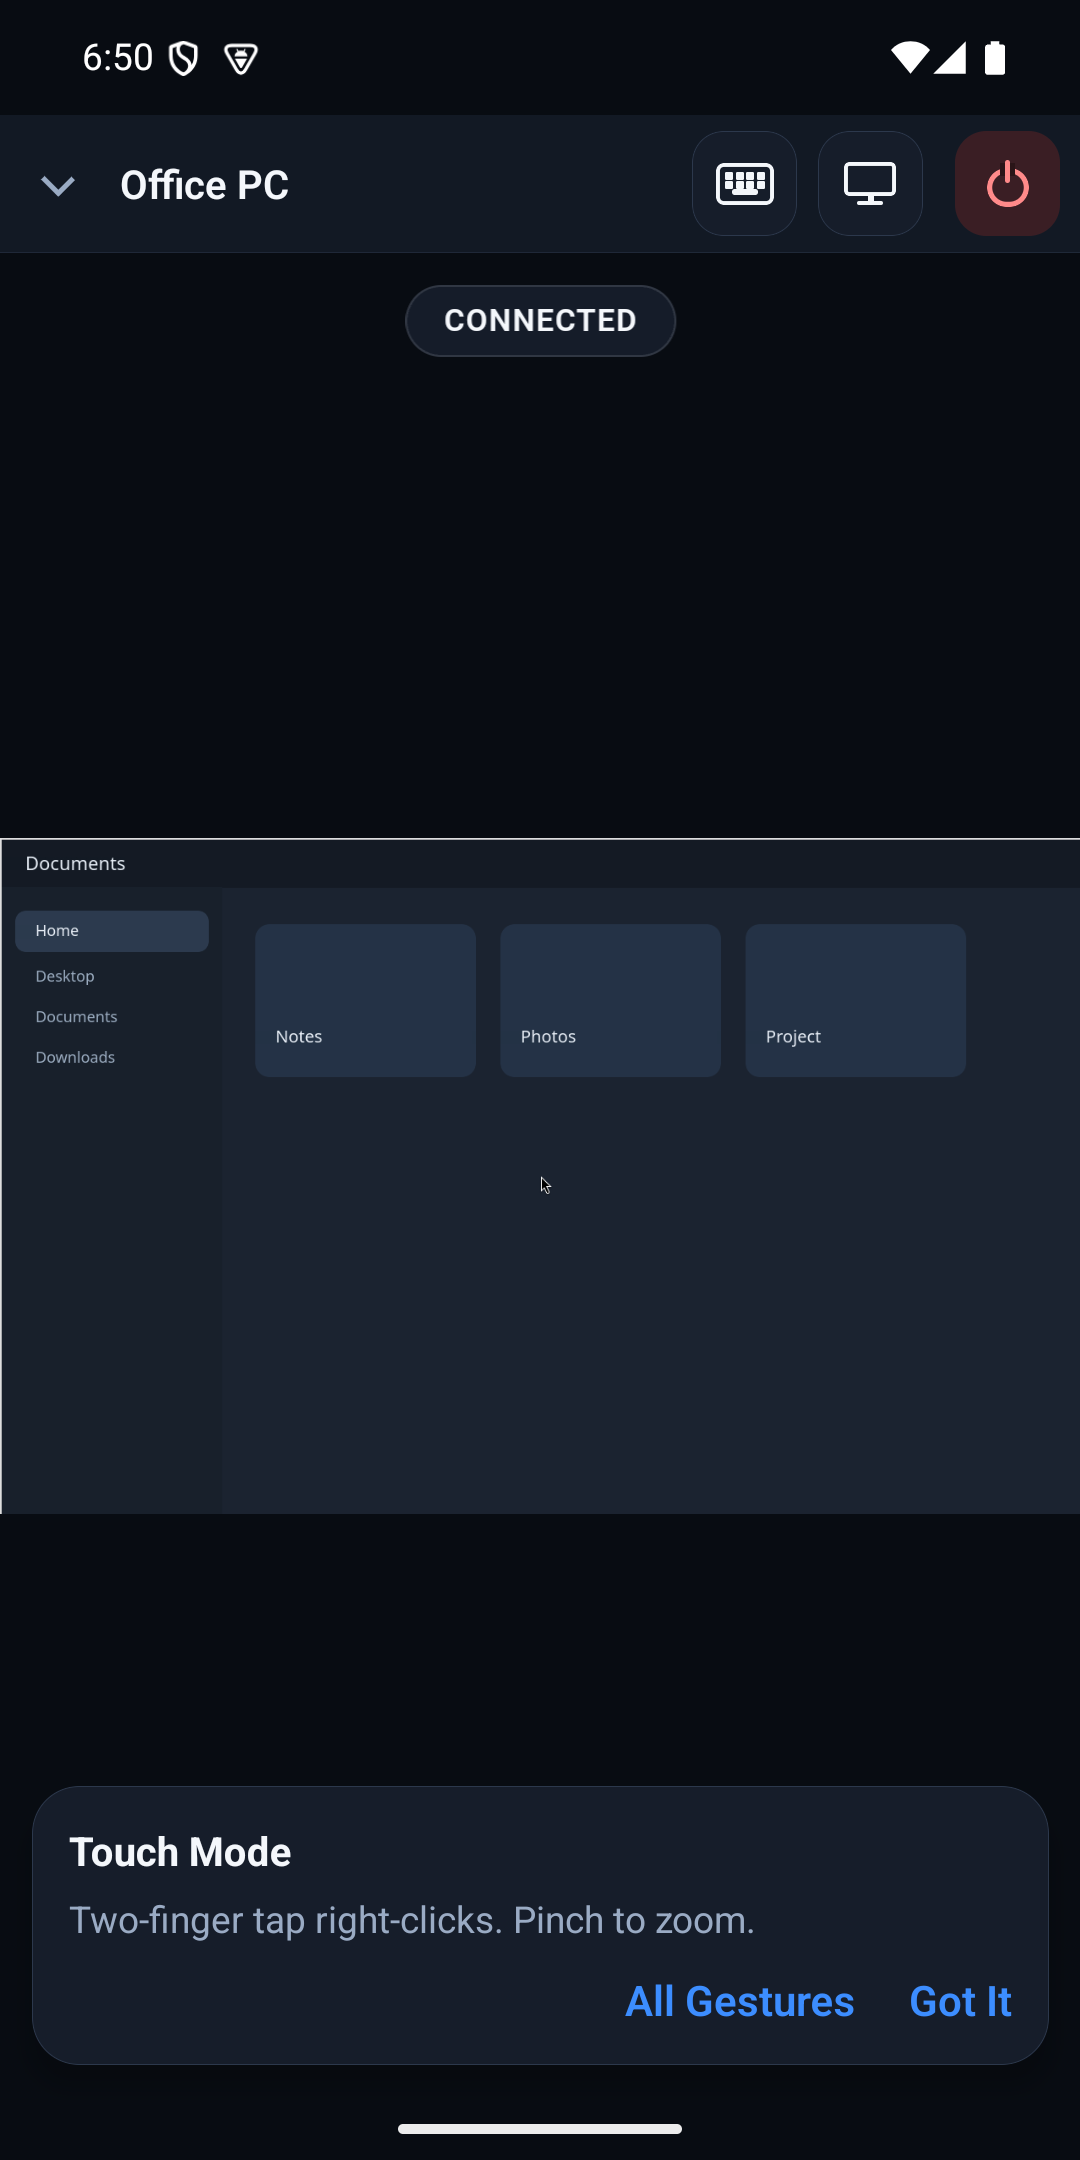
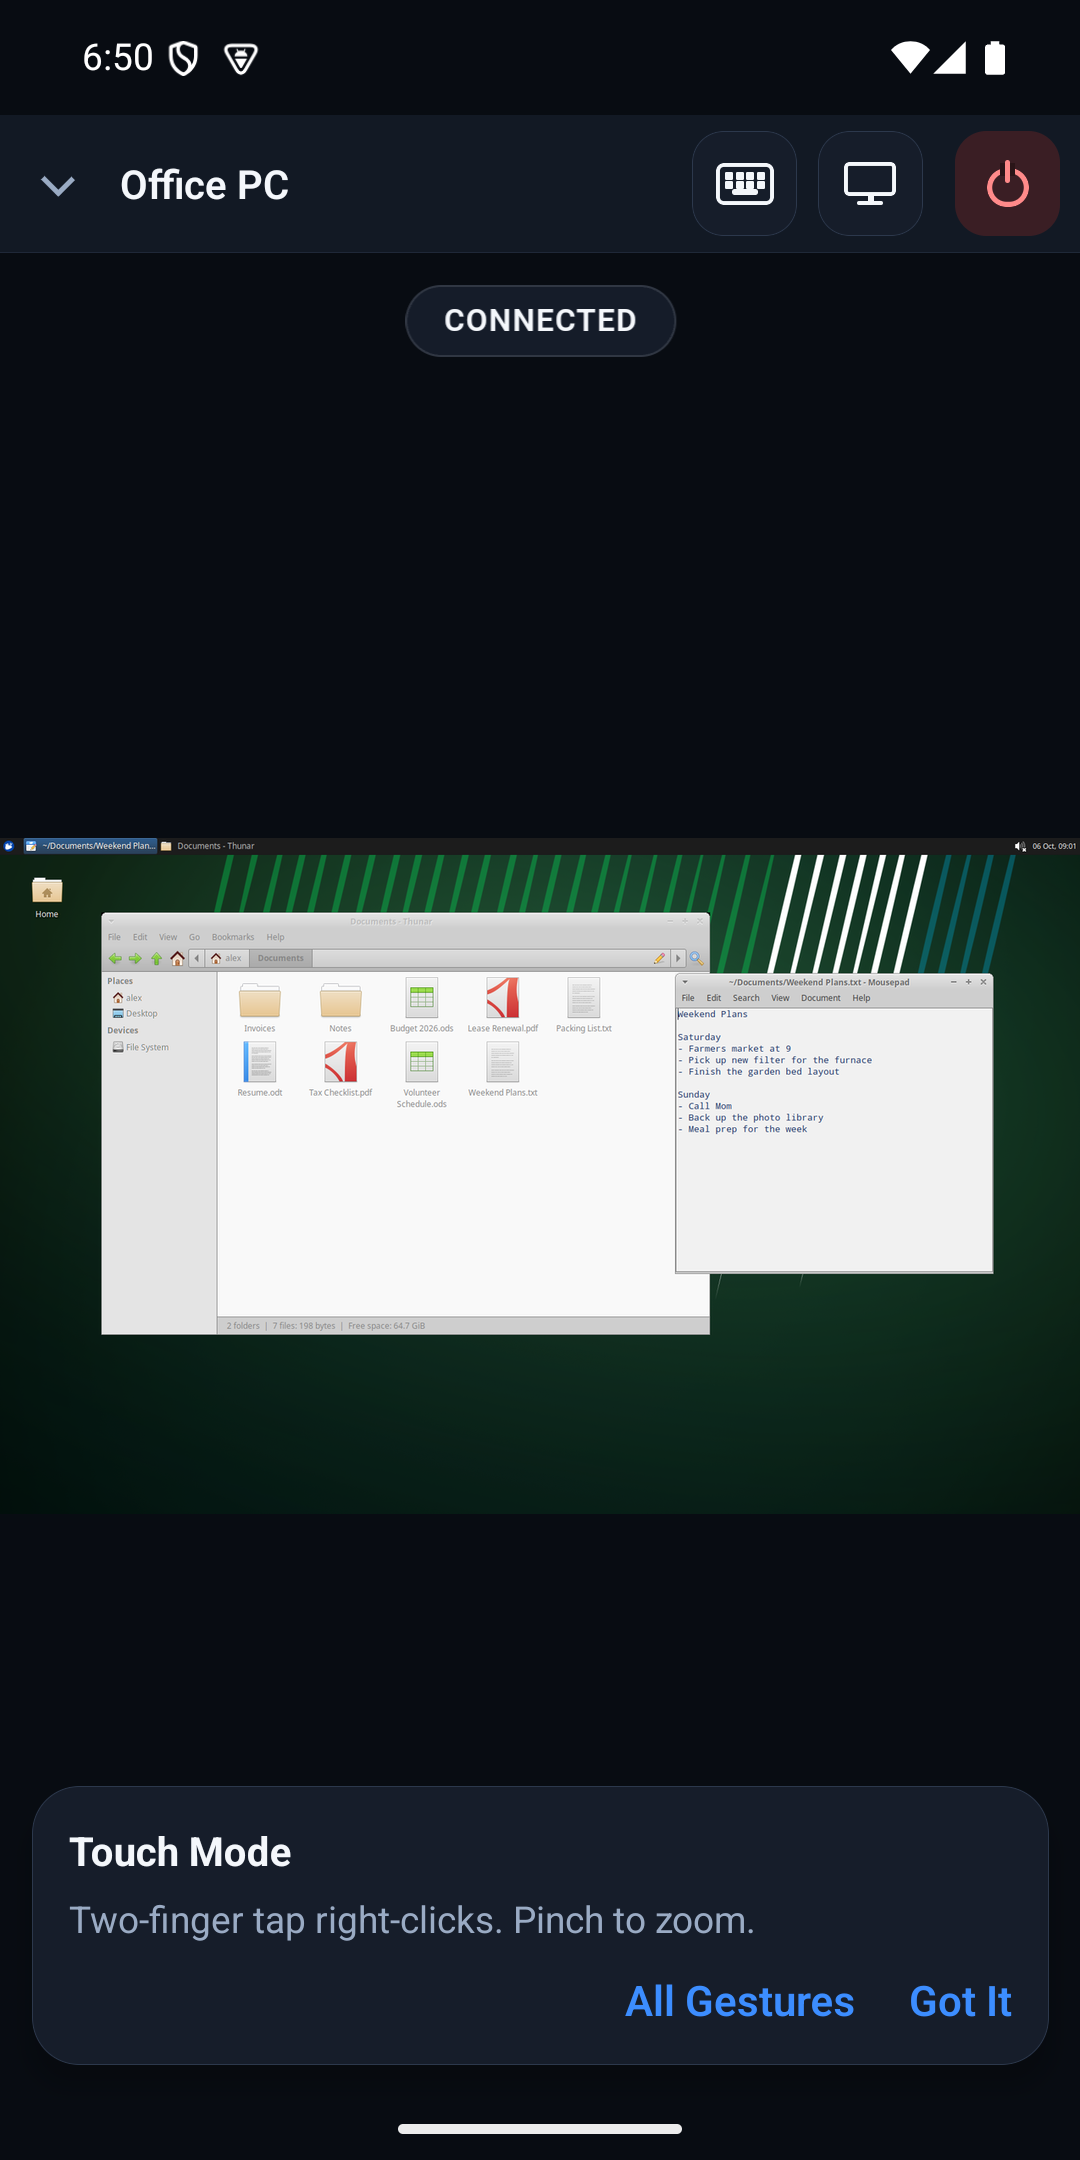
docs: show a real desktop in the Play session screenshots
Replace the stand-in remote screen in 03-session and 04-display with
the Xubuntu desktop from the README. Correct how the store README
describes those pictures, and add notes for refreshing screenshots,
including the iOS set still to capture.

Changed region(s): [[0.0, 0.3722, 1.0, 0.7134]]

diff --git a/apps/mobile/store/README.md b/apps/mobile/store/README.md
@@ -34,11 +34,13 @@ Phone screenshots, in order:
 3. A live session, with the toolbar and the touch hint.
 4. The same session with display options open.
 
-The session pictures are a real connection to a local desktop.
-iPhone screenshots (6.9-inch, 1320×2868) are in
-`app-store/en-US/images/iphone/`. iPad screenshots are in
-`app-store/en-US/images/ipad/` when captured. Nothing in this
-folder has been submitted.
+The app chrome in every picture is a real capture from the emulator.
+In the two session pictures, the remote screen area shows a real
+Xubuntu 24.04 desktop, added from `docs/images/hero.png` (see
+[Updating Screenshots](#updating-screenshots)). iPhone screenshots
+(6.9-inch, 1320×2868) are in `app-store/en-US/images/iphone/`. iPad
+screenshots (13-inch, 2064×2752) are in `app-store/en-US/images/ipad/`.
+Nothing in this folder has been submitted.
 
 Suggested console answers:
 
@@ -91,3 +93,86 @@ Suggested console answers:
 iPhone screenshots are 1320×2868, the 6.9-inch size App Store
 Connect accepts. iPad screenshots are 2064×2752, the 13-inch size.
 Both were captured from the simulators, not resized from Android.
+
+## Updating Screenshots
+
+### What the Remote Screen Should Show
+
+The remote computer in every picture should look like a normal
+desktop: a real OS with a wallpaper, a panel or dock, and ordinary
+windows. Avoid test patterns, `glxgears`, empty desktops, and
+loopback addresses such as `127.0.0.1` in the session header. A
+private LAN address such as `192.168.1.20` reads naturally.
+
+The current pictures use one Xubuntu 24.04 desktop, 1600×1000, with
+Thunar open on Documents and a text file in Mousepad. A 16:10 remote
+screen fills the phone viewer at Fit Screen with no letterboxing.
+
+### Reusing the Desktop From the README
+
+`docs/images/hero.png` holds that desktop at 1275×797, at offset
+(610, 405). If a live session can't be captured, crop it and place it
+over the viewer's remote area. Find that area by its top-left border
+pixel (`#DEDEDE`). In the Play pictures it is 1080 wide, at y 838 in
+`03-session.png` and y 475 in `04-display.png`.
+
+```bash
+magick docs/images/hero.png -crop 1275x797+610+405 +repage remote.png
+magick remote.png -filter Lanczos -resize 1080x676! remote-1080.png
+magick 03-session.png remote-1080.png -geometry +0+838 -composite \
+  -alpha off -strip PNG24:03-session.png
+```
+
+Update `docs/images/hero.png` and `docs/images/phone-session.png` in
+the same pass, so GitHub, greg.tech, and the stores show the same
+desktop. The greg.tech images are WebP copies of those two files.
+
+### Android
+
+Capture from an emulator or a phone with
+`adb exec-out screencap -p > shot.png`, then crop the system bars
+to 1080×2160 if needed. Turn on demo mode first, for a clean status
+bar:
+
+```bash
+adb shell settings put global sysui_demo_allowed 1
+adb shell am broadcast -a com.android.systemui.demo -e command clock -e hhmm 0941
+adb shell am broadcast -a com.android.systemui.demo -e command battery -e level 100 -e plugged false
+adb shell am broadcast -a com.android.systemui.demo -e command notifications -e visible false
+```
+
+### iOS
+
+Only the home screen exists so far: `iphone/01-home.png` and
+`ipad/01-home.png`. To match Play, add the same four pictures for
+iPhone and iPad: Home with an address typed in, Settings, a live
+session with the Touch Mode hint, and the session with Display open.
+
+1. Boot the largest simulators: iPhone Pro Max (6.9-inch, 1320×2868)
+   and iPad Pro 13-inch (2064×2752). Run the app from
+   [NATIVE_SETUP.md](../NATIVE_SETUP.md).
+2. Clean up the status bar before every capture:
+
+   ```bash
+   xcrun simctl status_bar booted override --time 9:41 \
+     --batteryState charged --batteryLevel 100 \
+     --wifiBars 3 --cellularMode active --cellularBars 4
+   ```
+
+3. Capture: `xcrun simctl io booted screenshot 02-settings.png`.
+4. Remove the alpha channel, which App Store Connect rejects:
+   `magick shot.png -alpha off PNG24:shot.png`.
+5. For the session pictures, connect to a real desktop. The simulator
+   shares the Mac's network, so a VNC server on the LAN or on the Mac
+   itself works. If that isn't possible, use the hero desktop as
+   described above.
+
+Retake the existing iOS home pictures in the same pass. The iPhone
+one shows 6:52 in the status bar. The iPad one has the iPadOS
+window-resize handle in the bottom-right corner, over the Connect
+button's shadow. Full-screen the app (or turn off Stage Manager)
+before capturing.
+
+Pick one appearance per store. The Play pictures are dark. The
+existing iOS pictures are light. Either is fine, as long as every
+picture in one listing matches.
